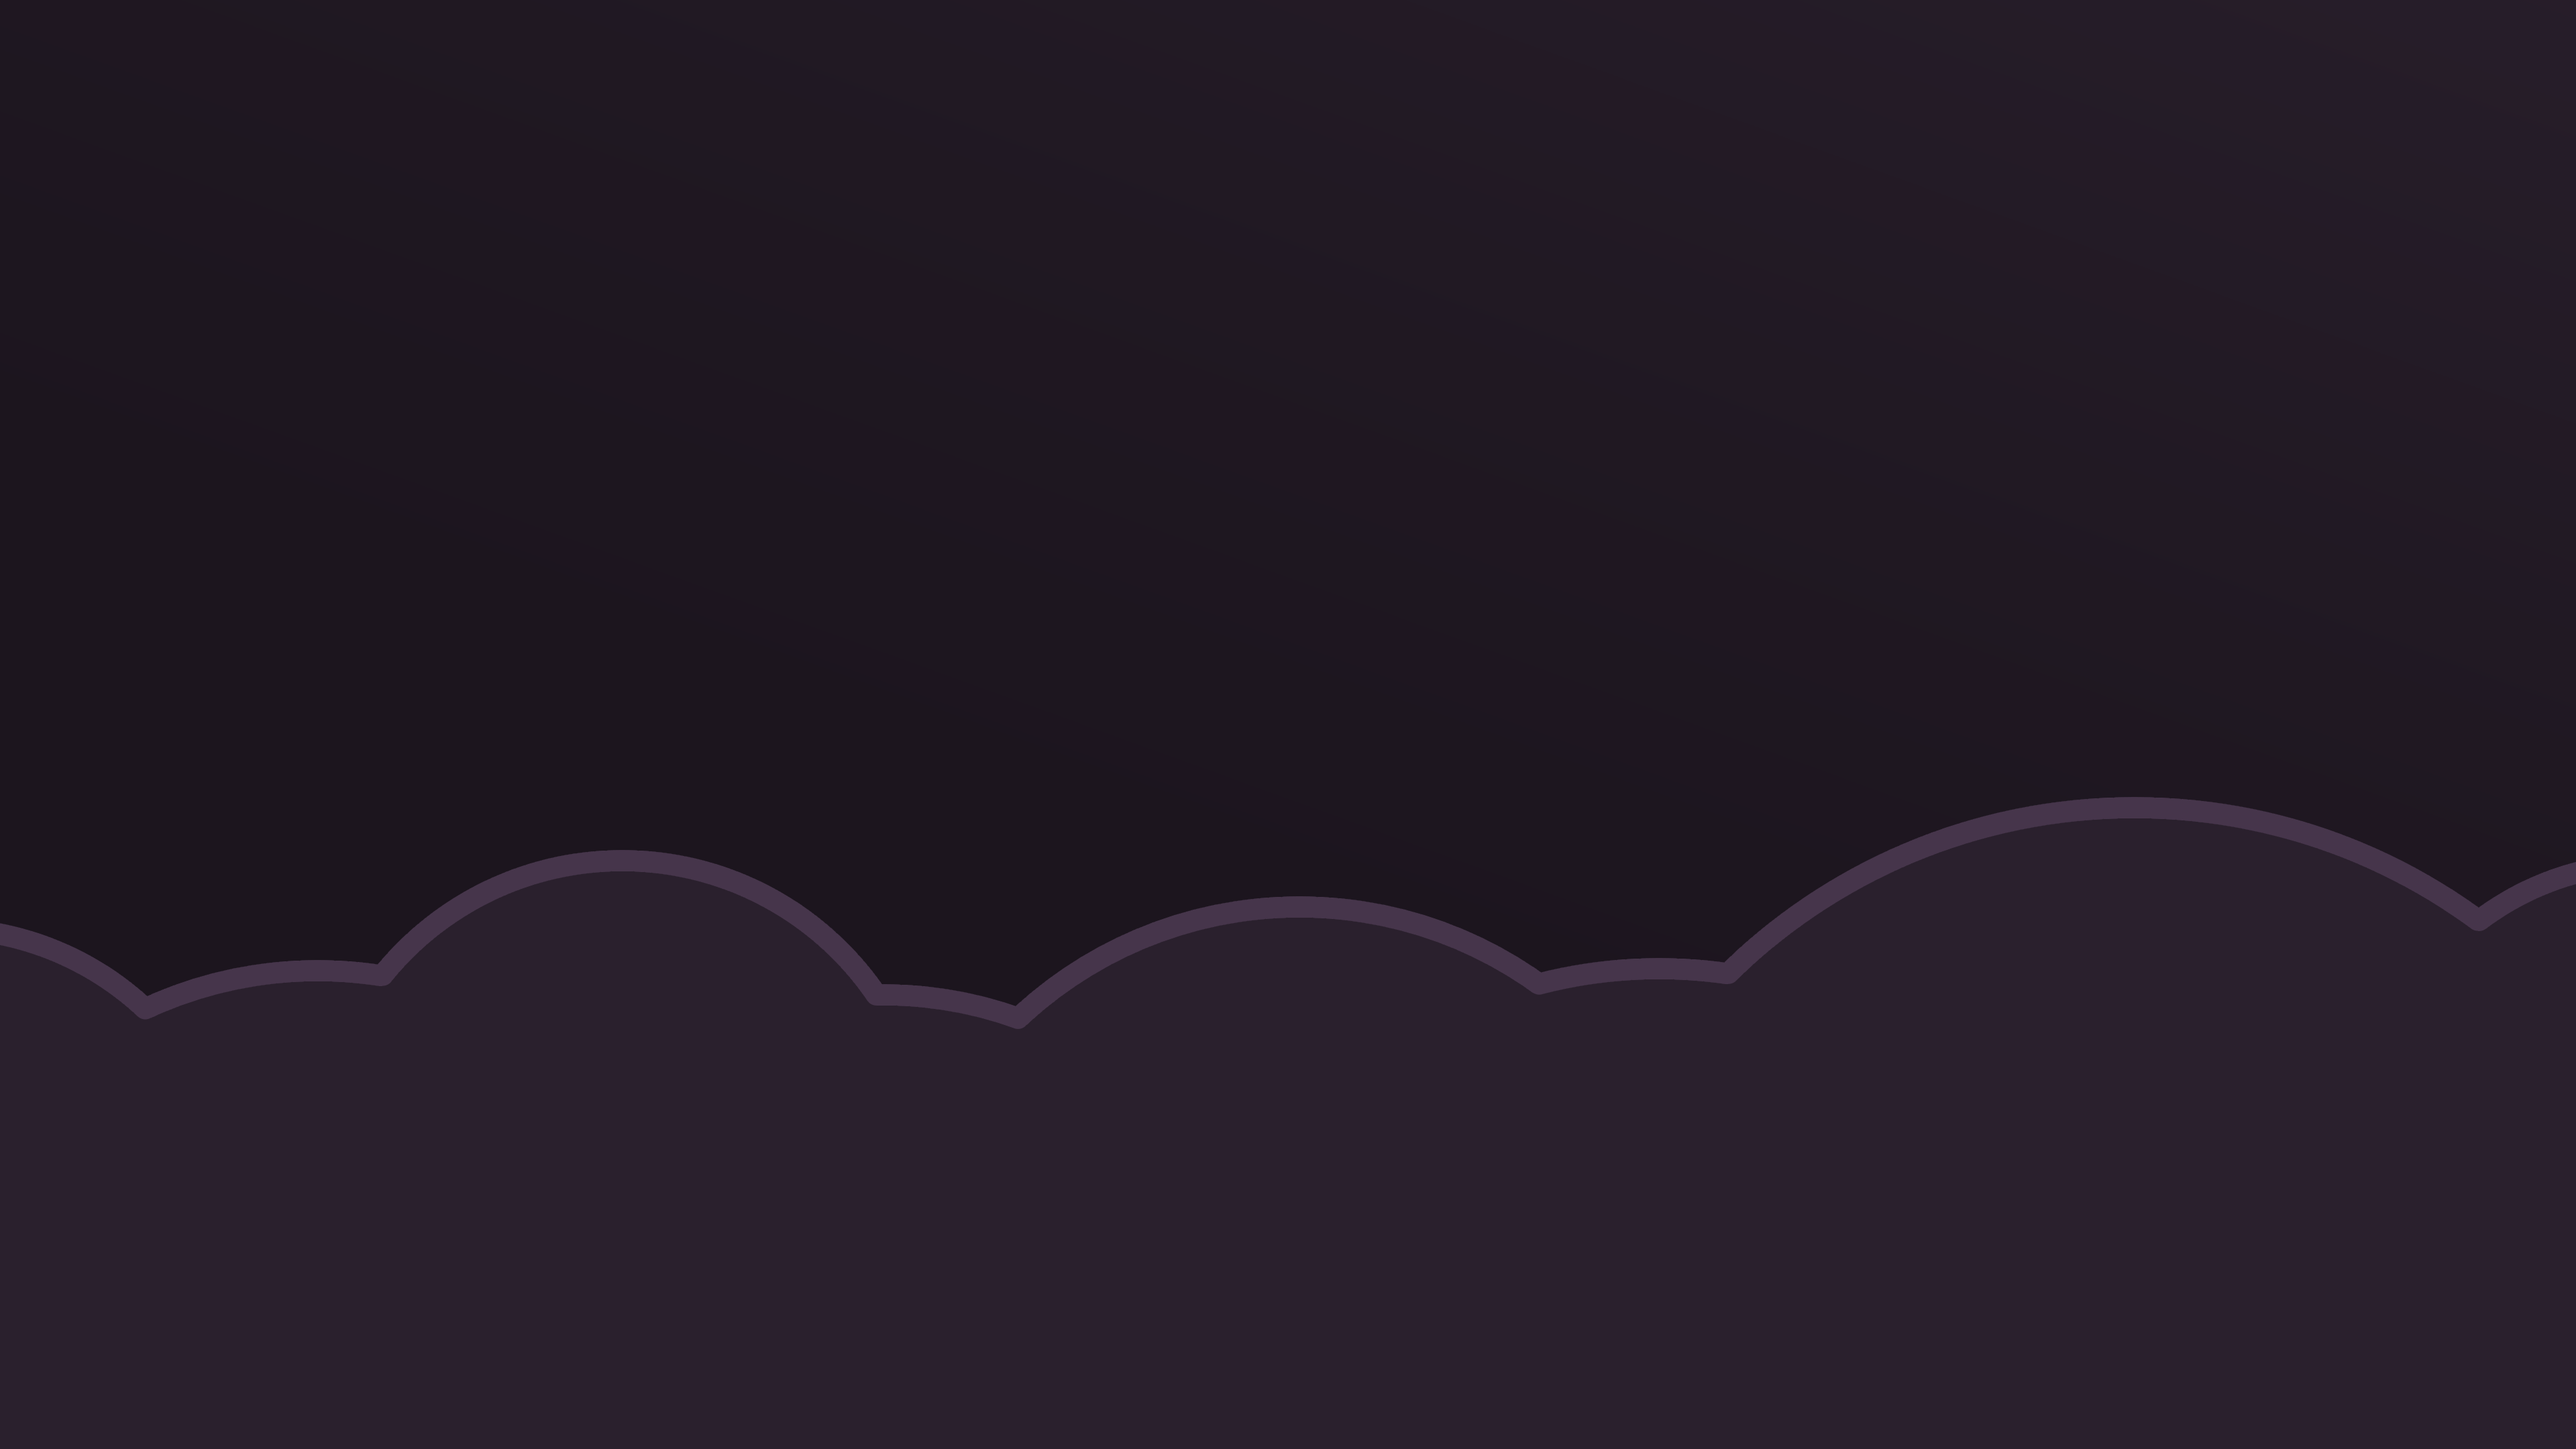
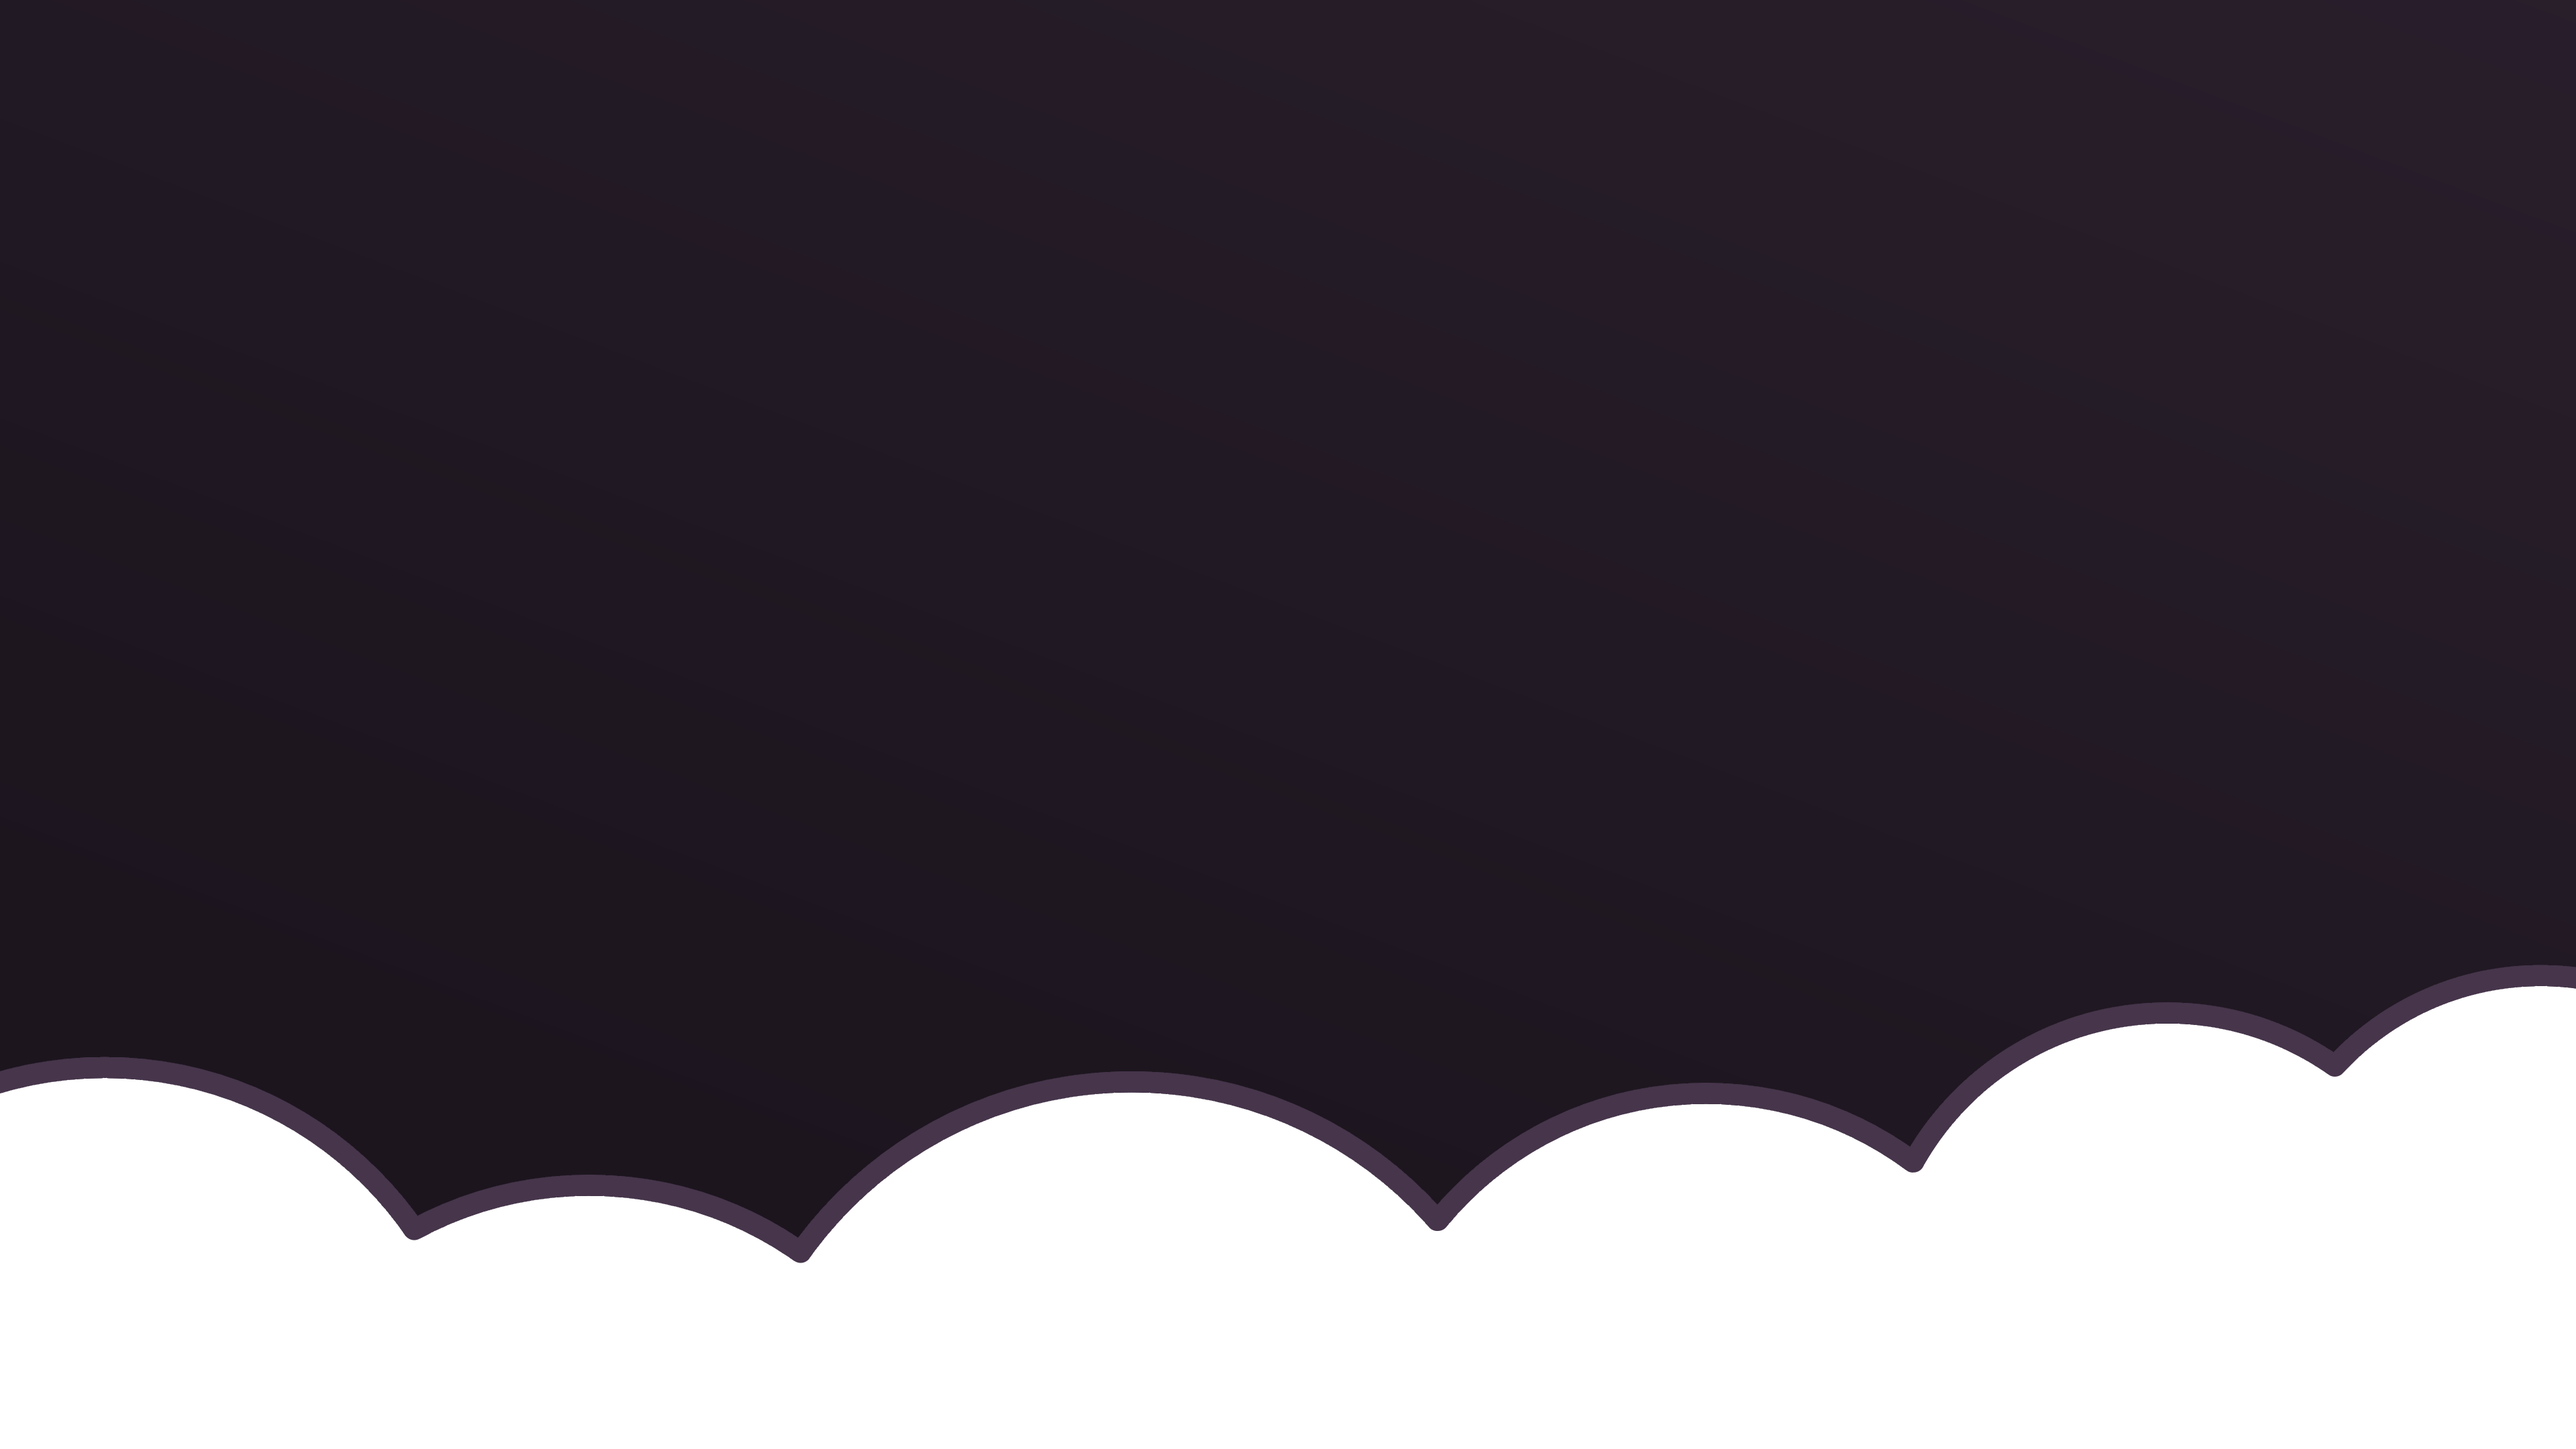
added background

diff --git a/index.html b/index.html
@@ -28,7 +28,7 @@
     <div class="element" id="about-me">
         <h2>About Me</h2>
 
-        <p> Hi There, I am a final year Computer Science student at the University of Southampton, currently working towards my Masters in Engineering. I have a keep passion for programming languages and app development, areas that have been a focus of mine whilst at University. <br><br> Check out some of my social medias at the icons below, or scroll down to see some of my projects :)</p>
+        <p> Hi there, I am a final year Computer Science student at the University of Southampton, currently working towards my Masters in Engineering. I have a keen passion for programming languages and app development, which have been my focus whilst at University.<br><br>Check out some of my social media below, or scroll down to see some of my projects :)</p>
 
         <div class="social-links">
                 <a href="www.linkedin.com/in/dillon-geary">

diff --git a/assets/css/index.css b/assets/css/index.css
@@ -1,9 +1,10 @@
 @import url('https://fonts.googleapis.com/css2?family=Bebas+Neue&family=DM+Serif+Display:ital@1&family=Honk&family=Montserrat:wght@300&family=Roboto+Mono:wght@100;200;300;400;500;600;700&family=Single+Day&family=Sixtyfour&display=swap');
 
 body {
-    background-image: url("assets/images/background.png");
+    background-image: url("../images/background.png");
     background-repeat: no-repeat;
-    background-color: #2a202d;
+    background-size: 100vw 100vh;
+    background-color: #342937;
     color:#fcfbfc;
     overflow-x: hidden;
 }
@@ -47,12 +48,10 @@ p{
 
 #title{
     height: 100vh;
-    padding: 0;
-    padding-left: 10vw;
     display: flex;
     justify-content: center;
     margin: 0;
-    padding: 10vw;
+    padding: 5vw 0vw 15vw 10vw;
     div {
         margin: auto 0;
         line-height:1em;
